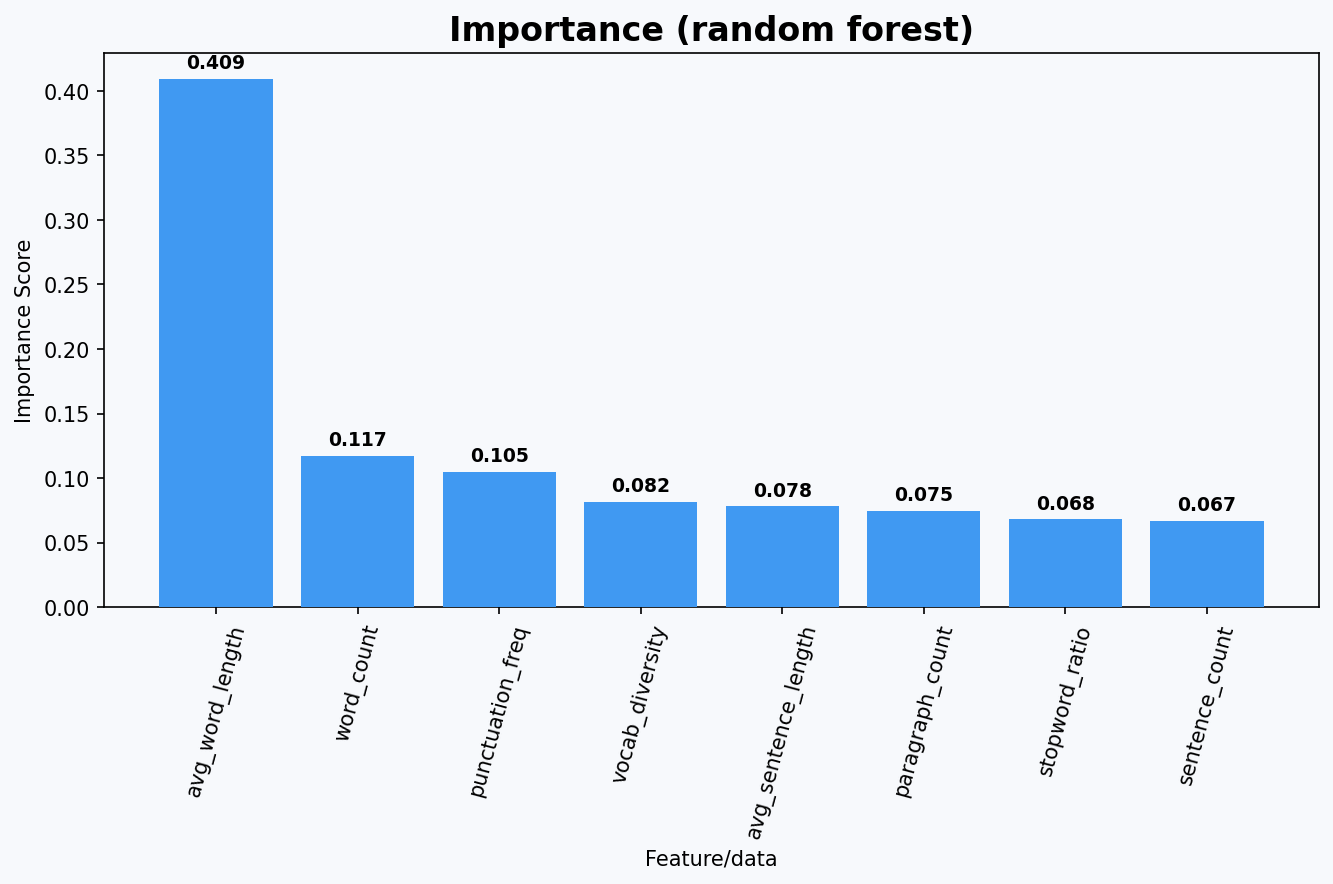
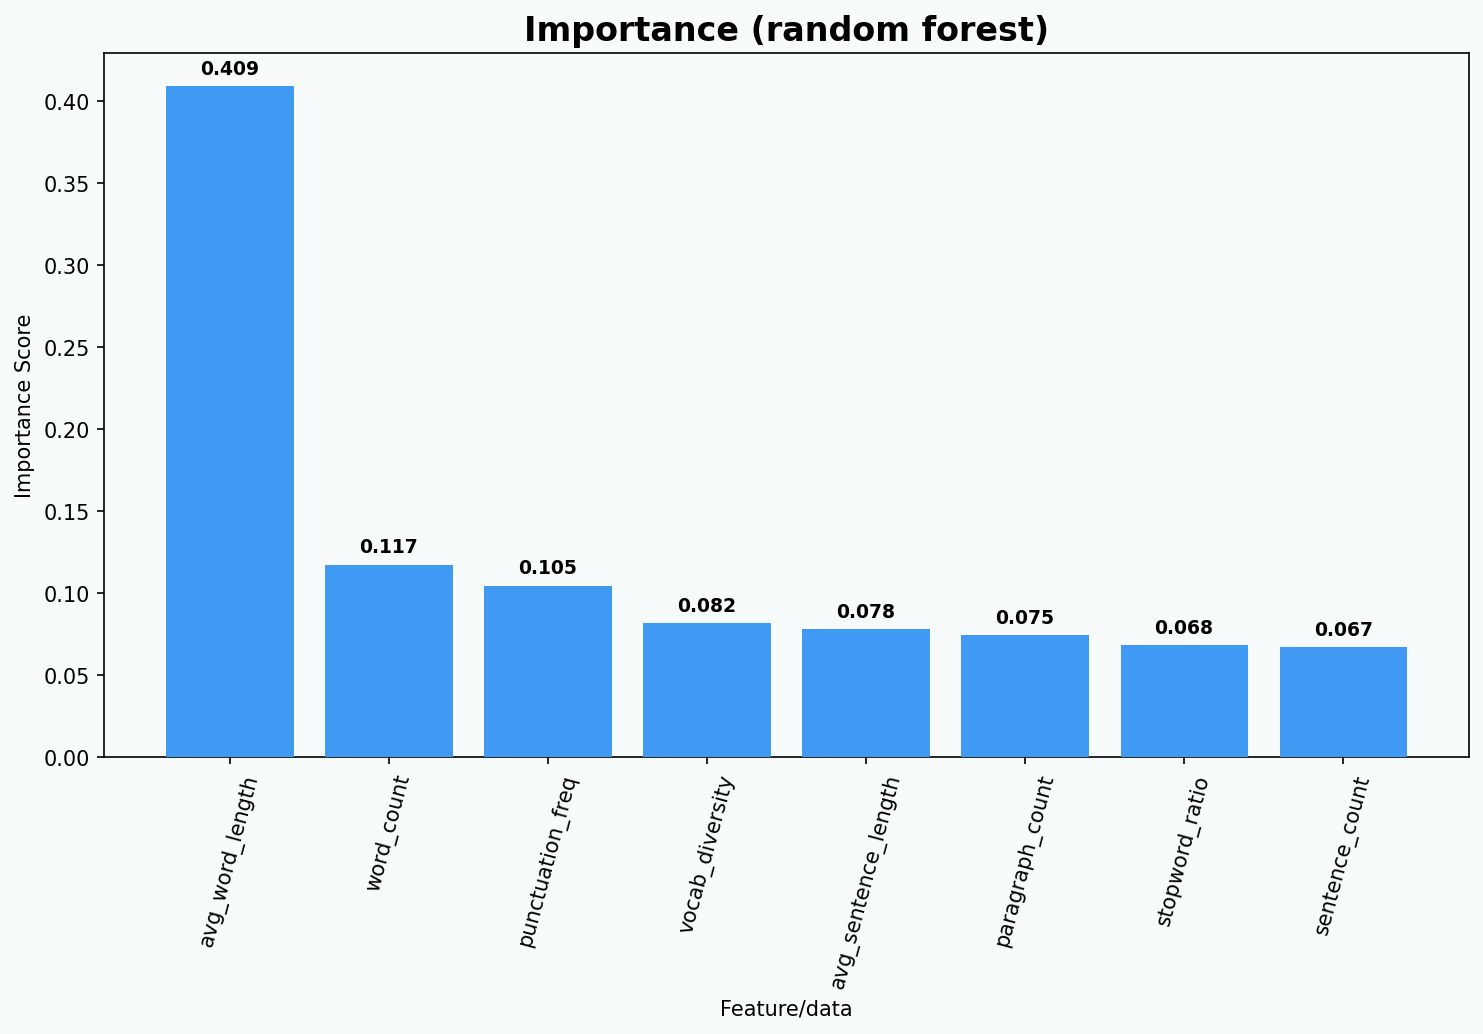
d

Changed region(s): [[0.0, 0.0, 1.0, 1.0], [0.3383, 0.8247, 0.3691, 0.9163]]

diff --git a/src/visual.py b/src/visual.py
@@ -13,7 +13,7 @@ from sklearn.tree import DecisionTreeClassifier
 from sklearn.ensemble import RandomForestClassifier
 
 def load_data():
-    conn = sqlite3.connect('/Users/alinan/Documents/human-ai-detector/database/ai_human.db') # connect to database
+    conn = sqlite3.connect('database/ai_human.db') # connect to database
     df = pd.read_sql("SELECT * FROM extracted_texts", conn) # read the data from the "extracted_texts" table in the database into a pandas dataframe
     conn.close() # close the connection to the database bc we no longer need it after loading the data
     return df # return the dataframe containing the data from the database
@@ -24,7 +24,7 @@ def _save(fig, filename):
     plt.close(fig)
 
 # Helper function to create grouped bar charts for the average comparison of features between human and AI generated texts
-def _grouped_bars(ax, avg_df, features, under_names, ylabel, title, fmt='.1f'):
+def create_bars(ax, avg_df, features, under_names, ylabel, title, fmt='.1f'):
     
     #---Bar positions and styling---
     x = np.arange(len(features)) # the x positions for the bars, based on the number of features being compared
@@ -100,13 +100,13 @@ def plot_all_features(avg_df):
     ]
 
     for ax, features, names, ylabel, title, fmt in graph:
-        _grouped_bars(ax, avg_df, features, names, ylabel, title, fmt=fmt)
+        create_bars(ax, avg_df, features, names, ylabel, title, fmt=fmt)
 
     plt.tight_layout(pad=3)
     _save(fig, 'engineered_features.png')
 
 # -------- MODEL ACCURACY GRAPH --------
-def plot_model_accuracy(results):
+def plot_modaccuracy(results):
 
     fig, ax = plt.subplots(figsize=(8, 5))
 
@@ -143,7 +143,7 @@ def plot_model_accuracy(results):
 
 
 # -------- FEATURE IMPORTANCE (RANDOM FOREST) --------
-def plot_feature_importance(model, feature_names):
+def plot_fi(model, feature_names):
 
     # feature importance data frame has two columns:
     # "Feature" which lists the names of the features, 
@@ -153,9 +153,9 @@ def plot_feature_importance(model, feature_names):
         'Importance': model.feature_importances_
     }).sort_values(by='Importance', ascending=False) # false - most to least important
 
-    fig, ax = plt.subplots(figsize=(9, 6)) # 
-    fig.patch.set_facecolor('#F7F9FC')
-    ax.set_facecolor('#F7F9FC')
+    fig, ax = plt.subplots(figsize=(10, 7)) #figsize determines the size of the plot; ax is the subplot object we will use to create the bar chart
+    fig.patch.set_facecolor("#F7FCFB") 
+    ax.set_facecolor("#F7FBFC")
 
     ax.bar(ft_df['Feature'], ft_df['Importance'], color="#4099F2", zorder=3)
 
@@ -183,12 +183,9 @@ def plot_feature_importance(model, feature_names):
 def plot_modelgraph(df, features):
     X = df[features]
     y = df['generated']
-
     X_scaled = pd.DataFrame(StandardScaler().fit_transform(X), columns=features)
 
-    X_train, X_test, y_train, y_test = train_test_split(
-        X_scaled,
-        y,
+    X_train, X_test, y_train, y_test = train_test_split(X_scaled, y,
         test_size=0.2,
         random_state=42
     )
@@ -199,40 +196,31 @@ def plot_modelgraph(df, features):
         (RandomForestClassifier(random_state=42), "Random Forest")
     ]
 
-    results = {}
-
+    #results dictionary will store the accuracy of each model, with the model name as the key and the accuracy score as the value\
+    result_accuracy = {}
     for model, name in models:
-        model.fit(X_train, y_train)
-        predictions = model.predict(X_test)
-        accuracy = accuracy_score(y_test, predictions)
-        results[name] = accuracy
+        model.fit(X_train, y_train) # train the model on the training data (X_train and y_train)
+        predictions = model.predict(X_test) # use the trained model to make predictions on the test data (X_test)
+        accuracy = accuracy_score(y_test, predictions) # calculate the accuracy of the model's predictions by comparing them to the true labels (y_test) using the accuracy_score function from sklearn.metrics
+        result_accuracy[name] = accuracy # store the accuracy score in the result_accuracy dictionary with the model name as the key
 
         if name == "Random Forest":
-            plot_feature_importance(model, features)
+            plot_fi(model, features)
 
-    plot_model_accuracy(results)
+    plot_modaccuracy(result_accuracy)
 
 
 def run_visualizations():
     os.makedirs('visuals', exist_ok=True)
     df = load_data()
 
-    all_features = [
-        'word_count',
-        'sentence_count',
-        'avg_sentence_length',
-        'vocab_diversity',
-        'punctuation_freq',
-        'avg_word_length',
-        'stopword_ratio',
-        'paragraph_count'
-    ]
+    allfeatures = ['word_count', 'sentence_count','avg_sentence_length', 'vocab_diversity', 'punctuation_freq','avg_word_length', 'stopword_ratio','paragraph_count']
 
     # group the dataframe by the 'generated' column so we can calculate average feature values for Human and AI separately
-    avg_df = df.groupby('generated')[all_features].mean().rename(index={0.0: 'Human', 1.0: 'AI Generated'})
+    avg_df = df.groupby('generated')[allfeatures].mean().rename(index={0.0: 'Human', 1.0: 'AI Generated'})
 
     plot_all_features(avg_df)
-    plot_modelgraph(df, all_features)
+    plot_modelgraph(df, allfeatures)
     print("All visualizations completed")
 
 if __name__ == "__main__":

diff --git a/src/model.py b/src/model.py
@@ -1,7 +1,5 @@
 import sqlite3
-import os
 import pandas as pd
-
 from sklearn.model_selection import train_test_split, KFold, cross_val_score, GridSearchCV
 from sklearn.linear_model import LogisticRegression
 from sklearn.tree import DecisionTreeClassifier
@@ -9,9 +7,6 @@ from sklearn.ensemble import RandomForestClassifier
 from sklearn.metrics import classification_report, accuracy_score
 from sklearn.preprocessing import StandardScaler
 
-# ------ FILE PATH SETUP------ 
-BASE_DIR = os.path.dirname(os.path.dirname(os.path.abspath(__file__)))
-DB_PATH = os.path.join(BASE_DIR, "database", "ai_human.db")
 
 # the extracted data features that we will use for training the models
 FEATURES = [
@@ -19,19 +14,16 @@ FEATURES = [
     'sentence_count',
     'avg_sentence_length',
     'vocab_diversity',
-    'punctuation_freq'
+    'punctuation_freq',
+    'avg_word_length',
+    'stopword_ratio',
+    'paragraph_count'
 ]
 
 # ------ LOAD DATA ------ 
 # Load data from SQLite database
 def load_data():
-    if not os.path.exists(DB_PATH):
-        raise FileNotFoundError(
-            f"Database not found at: {DB_PATH}\n"
-            "Please run db-setup.py and data-extract.py first."
-        )
-
-    conn = sqlite3.connect(DB_PATH)
+    conn = sqlite3.connect('database/ai_human.db')
     df = pd.read_sql("SELECT * FROM extracted_texts", conn)
     conn.close()
     return df

diff --git a/src/db-setup.py b/src/db-setup.py
@@ -12,15 +12,15 @@ def clean_df(df):
 
 def setup_database():
     #load csv
-    df = pd.read_csv('/Users/alinan/Documents/human-ai-detector/data/AI_Human.csv')
+    df = pd.read_csv('data/AI_Human.csv')
     
     #clean data
     df = clean_df(df)
-    
-    # opens connection to sqlite database file called  ai_detector.db'
-    conn = sqlite3.connect('/Users/alinan/Documents/human-ai-detector/database/ai_human.db')
-    
-    # saves data as a TABLE inside of my database (ai_human.db) called "texts" (if table already exists, it will be replaced) 
+
+    # opens connection to sqlite database file called  ai_human.db'
+    conn = sqlite3.connect('database/ai_human.db')
+
+    # saves data as a TABLE inside of my database (ai_human.db) called "texts" (if table already exists, it will be replaced)
     # #save the table into whatever database conn is connected to
     df.to_sql('texts', conn, if_exists='replace', index=False)
  

diff --git a/src/data-extract.py b/src/data-extract.py
@@ -64,7 +64,7 @@ def extract_data(text):
     }
 
 def apply_data_extraction():
-    conn = sqlite3.connect('/Users/alinan/Documents/human-ai-detector/database/ai_human.db')
+    conn = sqlite3.connect('database/ai_human.db')
 
     # read the original text data from the "texts" table in the database into a dataframe
     df = pd.read_sql("SELECT * FROM texts", conn)
@@ -91,8 +91,7 @@ def apply_data_extraction():
     # Save final feature table into database
     final_df.to_sql('extracted_texts', conn, if_exists='replace', index=False)
 
-    print("Completed and saved to a table called: extracted_texts ")
-    print(final_df.head())
+    print("Completed! saved to a table called: extracted_texts ")
 
     conn.close()
 
